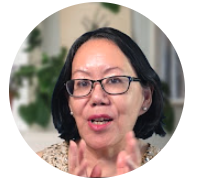
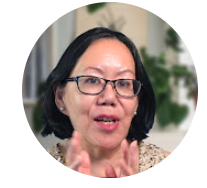
Simplify About hero to title-only; move photo beside opening paragraph

diff --git a/about.html b/about.html
@@ -42,30 +42,6 @@
     color: #fff;
     line-height: 1.2;
   }
-  .hero-flex {
-    display: flex;
-    align-items: center;
-    justify-content: space-between;
-    gap: 2rem;
-  }
-  .hero-photo-circle {
-    flex: 0 0 150px;
-    width: 150px;
-    height: 150px;
-    border-radius: 50%;
-    overflow: hidden;
-    box-shadow: 0 8px 24px rgba(0,0,0,0.3);
-  }
-  .hero-photo-circle img {
-    width: 100%;
-    height: 100%;
-    object-fit: cover;
-    display: block;
-  }
-  @media (max-width: 600px) {
-    .hero-flex { flex-direction: column; text-align: center; }
-  }
-
   /* ── STANDARD LAYOUT ── */
   .section-band { padding: 3rem 1.5rem; }
   .section-band.alt { background: var(--off-white); }
@@ -102,6 +78,32 @@
     margin-bottom: 1rem;
   }
   .body-text:last-of-type { margin-bottom: 0; }
+
+  /* ── OPENING ── */
+  .opening-flex {
+    display: flex;
+    align-items: center;
+    gap: 2.25rem;
+  }
+  .opening-flex .opening-text { flex: 1 1 auto; min-width: 0; }
+  .opening-photo-circle {
+    flex: 0 0 160px;
+    width: 160px;
+    height: 160px;
+    border-radius: 50%;
+    overflow: hidden;
+    box-shadow: 0 8px 24px rgba(0,0,0,0.25);
+  }
+  .opening-photo-circle img {
+    width: 100%;
+    height: 100%;
+    object-fit: cover;
+    display: block;
+  }
+  @media (max-width: 600px) {
+    .opening-flex { flex-direction: column; text-align: center; }
+    .opening-photo-circle { flex: 0 0 auto; }
+  }
 
   /* ── VIDEO EMBED ── */
   .video-embed {
@@ -224,20 +226,22 @@
 
 <!-- HERO -->
 <section class="hero-band">
-  <div class="hero-inner hero-flex">
-    <div class="hero-text">
-      <h1>About Mitzi Wyman</h1>
-    </div>
-    <div class="hero-photo-circle">
-      <img src="mitzi-about-hero.png" alt="Mitzi Wyman">
-    </div>
+  <div class="hero-inner">
+    <h1>About Mitzi Wyman</h1>
   </div>
 </section>
 
 <!-- OPENING -->
 <section class="section-band white">
   <div class="section-inner">
-    <p class="body-text">My work sits at the intersection of two things that are usually kept separate: the inner life of leadership — the clarity, courage and wisdom a leader needs to bring to genuinely difficult situations — and the organisation itself, where it is going, what it is investing in, whether its thinking is expanding or just rehearsing what it already knows.</p>
+    <div class="opening-flex">
+      <div class="opening-text">
+        <p class="body-text">My work sits at the intersection of two things that are usually kept separate: the inner life of leadership — the clarity, courage and wisdom a leader needs to bring to genuinely difficult situations — and the organisation itself, where it is going, what it is investing in, whether its thinking is expanding or just rehearsing what it already knows.</p>
+      </div>
+      <div class="opening-photo-circle">
+        <img src="mitzi-about-hero.png" alt="Mitzi Wyman">
+      </div>
+    </div>
     <p class="body-text">The Thinking Environment is where those two things meet. When people are given genuine attention, something shifts. Leaders find access to their own best thinking. Teams stop performing consensus and start thinking together. I've worked with organisations across sectors — NHS trusts, Sony Pictures, the Judicial College, Cabinet Office, and others — where the common thread is not the industry but the complexity of the leadership challenge.</p>
   </div>
 </section>